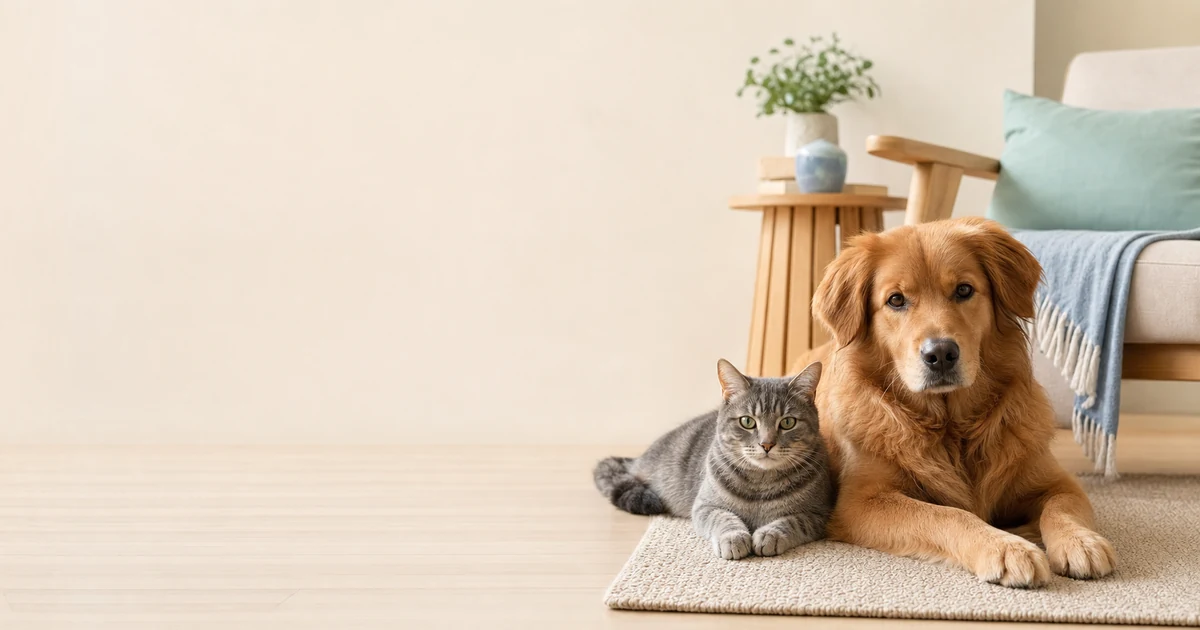
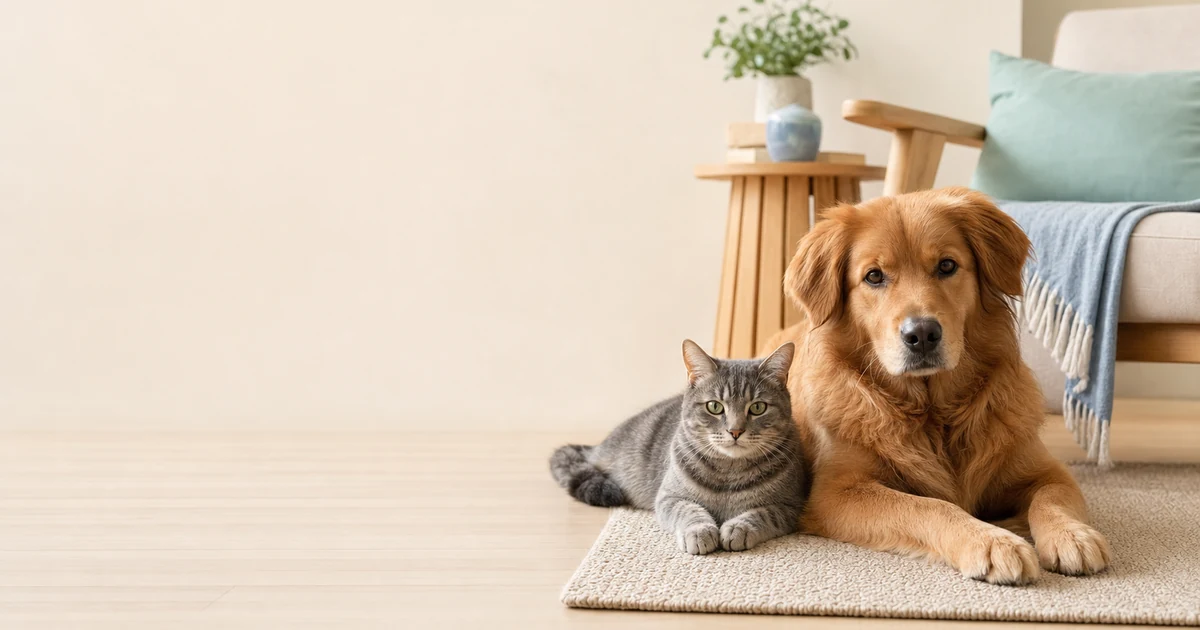
fix(brand): 完善轮播色彩与可访问性

Changed region(s): [[0.4317, 0.0, 1.0, 0.9952]]

diff --git a/scripts/brand-assets/process_hero_assets.py b/scripts/brand-assets/process_hero_assets.py
@@ -29,6 +29,12 @@ PROFILES = {
     "social": CropProfile(1200, 630, 0.50, 0.58),
 }
 
+THEME_FOCAL_POINTS = {
+    "trusted-care": (0.72, 0.58),
+    "professional-care": (0.28, 0.50),
+    "community-companion": (0.70, 0.56),
+}
+
 THEMES = {
     "trusted-care": {
         "source": "hero-trusted-care-source-v1.png",
@@ -82,6 +88,11 @@ def to_srgb(image: Image.Image) -> Image.Image:
     return image
 
 
+def srgb_profile_bytes() -> bytes:
+    """Return the ICC bytes embedded in every raster derivative."""
+    return ImageCms.ImageCmsProfile(ImageCms.createProfile("sRGB")).tobytes()
+
+
 def safe_zone_fit(image: Image.Image, profile: CropProfile, safe_zone: str) -> Image.Image:
     """Fit the full scene and extend only its deliberately empty copy zone."""
     target_ratio = profile.width / profile.height
@@ -118,15 +129,25 @@ def export_hero_family(source: Path, slug: str, safe_zone: str) -> list[Path]:
     exported: list[Path] = []
     with Image.open(source) as opened:
         base = to_srgb(opened)
+        focal_x, focal_y = THEME_FOCAL_POINTS[slug]
         for profile_name, profile in PROFILES.items():
-            result = safe_zone_fit(base, profile, safe_zone)
+            effective_profile = CropProfile(profile.width, profile.height, focal_x, focal_y)
+            # Social crops need only a small vertical trim, so use the focal
+            # cover crop directly. Wider product banners preserve every care
+            # detail by extending only the intentionally empty safe zone.
+            result = (
+                cover_crop(base, effective_profile)
+                if profile_name == "social"
+                else safe_zone_fit(base, effective_profile, safe_zone)
+            )
             output_dir = DELIVERY / "hero" / profile_name
             output_dir.mkdir(parents=True, exist_ok=True)
             stem = f"hero-{slug}-{profile_name}-v1"
             png = output_dir / f"{stem}.png"
             webp = output_dir / f"{stem}.webp"
-            result.save(png, "PNG", optimize=True, compress_level=9)
-            result.save(webp, "WEBP", quality=88, method=6, exact=True)
+            icc_profile = srgb_profile_bytes()
+            result.save(png, "PNG", optimize=True, compress_level=9, icc_profile=icc_profile)
+            result.save(webp, "WEBP", quality=88, method=6, exact=True, icc_profile=icc_profile)
             exported.extend((png, webp))
     return exported
 
@@ -148,19 +169,19 @@ def create_elements() -> list[Path]:
     assets = [
         write_svg(
             gradients / "petcare-gradient-linear.svg",
-            '''<svg xmlns="http://www.w3.org/2000/svg" viewBox="0 0 1600 480" role="img" aria-labelledby="title"><title id="title">PetCare blue to mint linear gradient</title><defs><linearGradient id="g" x1="0" y1="0" x2="1" y2="1"><stop offset="0" stop-color="#4A6CF7"/><stop offset="1" stop-color="#5BC9B9"/></linearGradient></defs><rect width="1600" height="480" rx="32" fill="url(#g)"/></svg>''',
+            '''<svg xmlns="http://www.w3.org/2000/svg" viewBox="0 0 1600 480" role="img" aria-labelledby="title"><title id="title">PetCare blue to mint linear gradient</title><defs><linearGradient id="g" x1="0" y1="0" x2="1" y2="1"><stop offset="0" stop-color="#4A6CF7"/><stop offset="1" stop-color="#5BC8AF"/></linearGradient></defs><rect width="1600" height="480" rx="32" fill="url(#g)"/></svg>''',
         ),
         write_svg(
             gradients / "petcare-gradient-radial.svg",
-            '''<svg xmlns="http://www.w3.org/2000/svg" viewBox="0 0 1600 900" role="img" aria-labelledby="title"><title id="title">PetCare soft radial brand glow</title><defs><radialGradient id="g" cx="72%" cy="30%" r="72%"><stop offset="0" stop-color="#5BC9B9" stop-opacity=".38"/><stop offset=".45" stop-color="#4A6CF7" stop-opacity=".14"/><stop offset="1" stop-color="#FAFBFC" stop-opacity="0"/></radialGradient></defs><rect width="1600" height="900" fill="#FAFBFC"/><rect width="1600" height="900" fill="url(#g)"/></svg>''',
+            '''<svg xmlns="http://www.w3.org/2000/svg" viewBox="0 0 1600 900" role="img" aria-labelledby="title"><title id="title">PetCare soft radial brand glow</title><defs><radialGradient id="g" cx="72%" cy="30%" r="72%"><stop offset="0" stop-color="#5BC8AF" stop-opacity=".38"/><stop offset=".45" stop-color="#4A6CF7" stop-opacity=".14"/><stop offset="1" stop-color="#FAFBFC" stop-opacity="0"/></radialGradient></defs><rect width="1600" height="900" fill="#FAFBFC"/><rect width="1600" height="900" fill="url(#g)"/></svg>''',
         ),
         write_svg(
             gradients / "petcare-background-soft.svg",
-            '''<svg xmlns="http://www.w3.org/2000/svg" viewBox="0 0 1600 900" role="img" aria-labelledby="title"><title id="title">PetCare soft website background</title><defs><linearGradient id="b" x1="0" y1="0" x2="1" y2="1"><stop stop-color="#FAFBFC"/><stop offset=".55" stop-color="#F1F5FF"/><stop offset="1" stop-color="#EFFBF8"/></linearGradient></defs><rect width="1600" height="900" fill="url(#b)"/><circle cx="1320" cy="120" r="320" fill="#5BC9B9" opacity=".08"/><circle cx="170" cy="760" r="380" fill="#4A6CF7" opacity=".07"/></svg>''',
+            '''<svg xmlns="http://www.w3.org/2000/svg" viewBox="0 0 1600 900" role="img" aria-labelledby="title"><title id="title">PetCare soft website background</title><defs><linearGradient id="b" x1="0" y1="0" x2="1" y2="1"><stop stop-color="#FAFBFC"/><stop offset=".55" stop-color="#F1F5FF"/><stop offset="1" stop-color="#EFFBF8"/></linearGradient></defs><rect width="1600" height="900" fill="url(#b)"/><circle cx="1320" cy="120" r="320" fill="#5BC8AF" opacity=".08"/><circle cx="170" cy="760" r="380" fill="#4A6CF7" opacity=".07"/></svg>''',
         ),
         write_svg(
             patterns / "petcare-connection-pattern.svg",
-            '''<svg xmlns="http://www.w3.org/2000/svg" viewBox="0 0 320 320" role="img" aria-labelledby="title"><title id="title">PetCare connection pattern</title><defs><pattern id="p" width="80" height="80" patternUnits="userSpaceOnUse"><path d="M16 40h18m12 0h18M40 16v18m0 12v18" stroke="#4A6CF7" stroke-width="2" stroke-linecap="round" opacity=".16"/><circle cx="40" cy="40" r="6" fill="none" stroke="#5BC9B9" stroke-width="2" opacity=".32"/></pattern></defs><rect width="320" height="320" fill="url(#p)"/></svg>''',
+            '''<svg xmlns="http://www.w3.org/2000/svg" viewBox="0 0 320 320" role="img" aria-labelledby="title"><title id="title">PetCare connection pattern</title><defs><pattern id="p" width="80" height="80" patternUnits="userSpaceOnUse"><path d="M16 40h18m12 0h18M40 16v18m0 12v18" stroke="#4A6CF7" stroke-width="2" stroke-linecap="round" opacity=".16"/><circle cx="40" cy="40" r="6" fill="none" stroke="#5BC8AF" stroke-width="2" opacity=".32"/></pattern></defs><rect width="320" height="320" fill="url(#p)"/></svg>''',
         ),
         write_svg(
             badges / "petcare-badge-symbol.svg",
@@ -180,7 +201,7 @@ def create_elements() -> list[Path]:
         ),
         write_svg(
             overlays / "petcare-overlay-bottom.svg",
-            '''<svg xmlns="http://www.w3.org/2000/svg" viewBox="0 0 1600 720" role="img" aria-labelledby="title"><title id="title">PetCare bottom caption readability overlay</title><defs><linearGradient id="g" x1="0" y1="1" x2="0" y2="0"><stop stop-color="#202632" stop-opacity=".78"/><stop offset=".38" stop-color="#202632" stop-opacity=".38"/><stop offset=".72" stop-color="#202632" stop-opacity="0"/></linearGradient></defs><rect width="1600" height="720" fill="url(#g)"/></svg>''',
+            '''<svg xmlns="http://www.w3.org/2000/svg" viewBox="0 0 1600 720" role="img" aria-labelledby="title"><title id="title">PetCare bottom caption readability overlay</title><defs><linearGradient id="g" x1="0" y1="1" x2="0" y2="0"><stop stop-color="#202632" stop-opacity=".94"/><stop offset=".38" stop-color="#202632" stop-opacity=".62"/><stop offset=".72" stop-color="#202632" stop-opacity="0"/></linearGradient></defs><rect width="1600" height="720" fill="url(#g)"/></svg>''',
         ),
     ]
     return assets
@@ -202,11 +223,20 @@ def update_manifest() -> None:
         ("element.overlay.bottom", "elements/overlays/petcare-overlay-bottom.svg", 1600, 720),
     ]
     for asset_id, path, width, height in element_specs:
-        assets.append({"id": asset_id, "path": path, "kind": "element", "width": width, "height": height, "format": "svg"})
+        assets.append({
+            "id": asset_id,
+            "path": path,
+            "kind": "element",
+            "width": width,
+            "height": height,
+            "format": "svg",
+            "alt": asset_id.removeprefix("element.").replace(".", " ").replace("-", " ").title(),
+            "source": "../PetCare-Brand-Book-v1.0.md",
+        })
     manifest["overlayAccessibility"] = {
-        "lightOverlayDarkText": {"text": "#202632", "minimumBodyContrast": "4.5:1", "minimumLargeContrast": "3:1"},
-        "darkBottomOverlayWhiteText": {"text": "#FFFFFF", "minimumBodyContrast": "4.5:1", "minimumLargeContrast": "3:1"},
-        "note": "Verify contrast against each final composited crop; increase overlay opacity when sampled contrast falls below WCAG AA.",
+        "lightOverlayDarkText": {"text": "#202632", "minimumBodyContrast": "4.5:1", "minimumLargeContrast": "3:1", "verifiedMinimumContrast": "13.81:1", "verifiedRegion": "declared-side-40-percent"},
+        "darkBottomOverlayWhiteText": {"text": "#FFFFFF", "minimumBodyContrast": "4.5:1", "minimumLargeContrast": "3:1", "verifiedMinimumContrast": "7.46:1", "verifiedRegion": "bottom-20-percent"},
+        "note": "Verified against every final PNG crop. Re-test after changing an image, overlay, opacity, or text color.",
     }
     MANIFEST_PATH.write_text(json.dumps(manifest, ensure_ascii=False, indent=2) + "\n", encoding="utf-8", newline="\n")
 
